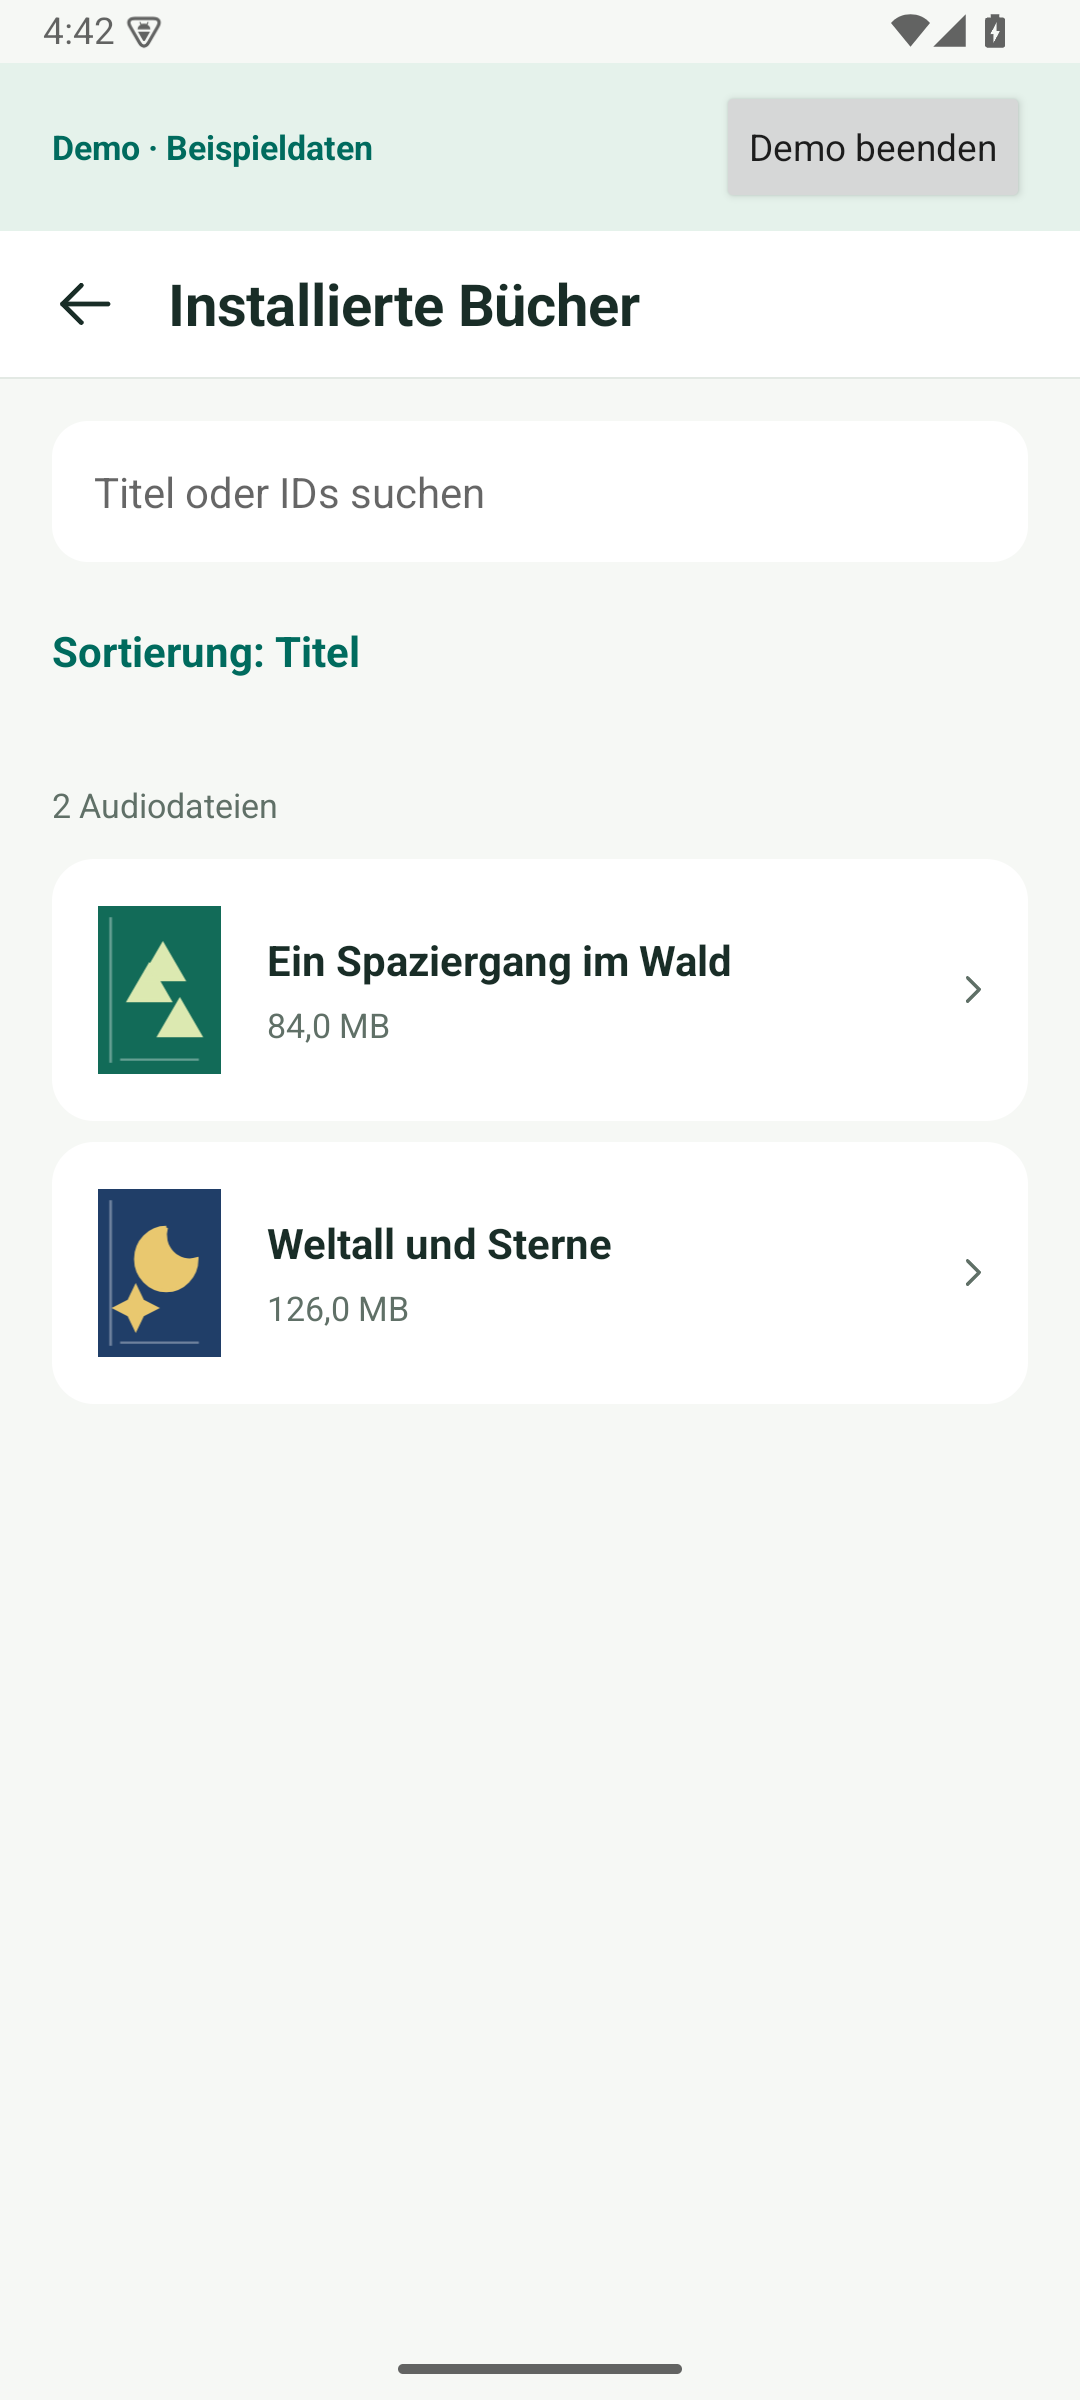
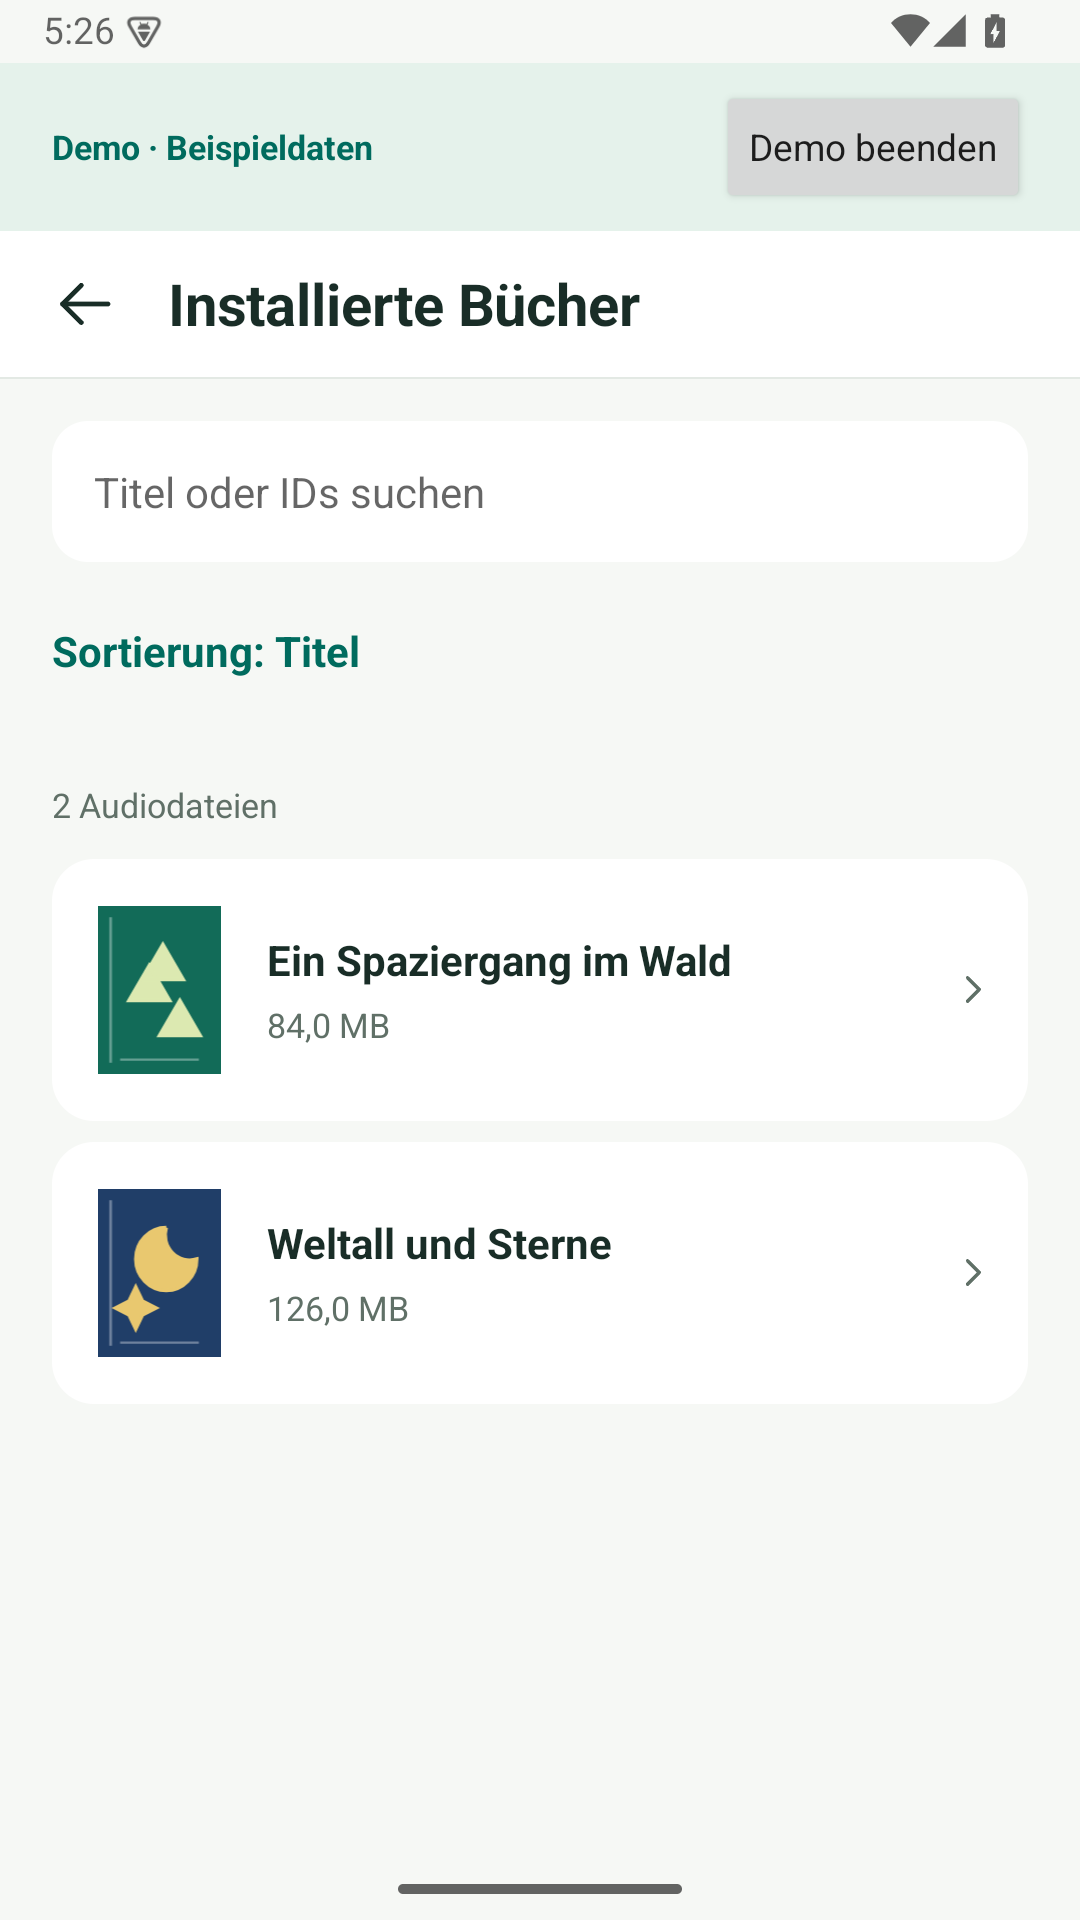
Capture localized Play screenshots at the requested portrait aspect ratio

diff --git a/scripts/store_screenshots.py b/scripts/store_screenshots.py
@@ -40,6 +40,12 @@ def capture(serial,locale):
     try:
         for label,name in zip(LABELS[locale],['01-pens','02-pen','03-library','04-book']):
             tap(label)
+            if name=='04-book':
+                scroll=next(n for n in nodes() if n.get('scrollable')=='true' and n.get('class')=='android.widget.ScrollView')
+                x1,y1,x2,y2=map(int,re.findall(r'\d+',scroll.get('bounds')))
+                x=str((x1+x2)//2)
+                adb('shell','input','swipe',x,str(y1+(y2-y1)*3//4),x,str(y1+(y2-y1)*2//5),'350')
+                time.sleep(.5)
             visible=nodes()
             if not any('Demo' in n.get('text','') or 'Démo' in n.get('text','') for n in visible):raise RuntimeError('Demo banner missing')
             (out/(name+'.png')).write_bytes(adb('exec-out','screencap','-p'))

diff --git a/scripts/check_store.py b/scripts/check_store.py
@@ -20,6 +20,6 @@ def check():
         png(folder/'feature.png',(1024,500))
         shots=sorted((folder/'phone').glob('*.png'))
         if not 2<=len(shots)<=8:raise ValueError(f'{locale}: expected 2–8 phone screenshots')
-        for path in shots:png(path,(1080,2400))
+        for path in shots:png(path,(1080,1920))
         print(f'{locale}: metadata, feature graphic and {len(shots)} RGB screenshots checked')
 if __name__=='__main__':check()

diff --git a/store/README.md b/store/README.md
@@ -7,7 +7,7 @@ family reading pens; this app is a file-management utility, not a children's
 reading game. Free, no advertisements or purchases.
 
 `{en-US,de-DE,fr-FR}/listing.json` owns localized descriptions. Each locale has
-a 1024 × 500 feature graphic and four unedited 1080 × 2400 actual app captures.
+a 1024 × 500 feature graphic and four unedited 1080 × 1920 actual app captures.
 Shared `icon.png` is 512 × 512. Screenshots are losslessly exported as RGB
 PNG (the unused opaque alpha channel is removed); captured pixels are unchanged.
 The capture/export scripts require ImageMagick (`magick`), and art export also
